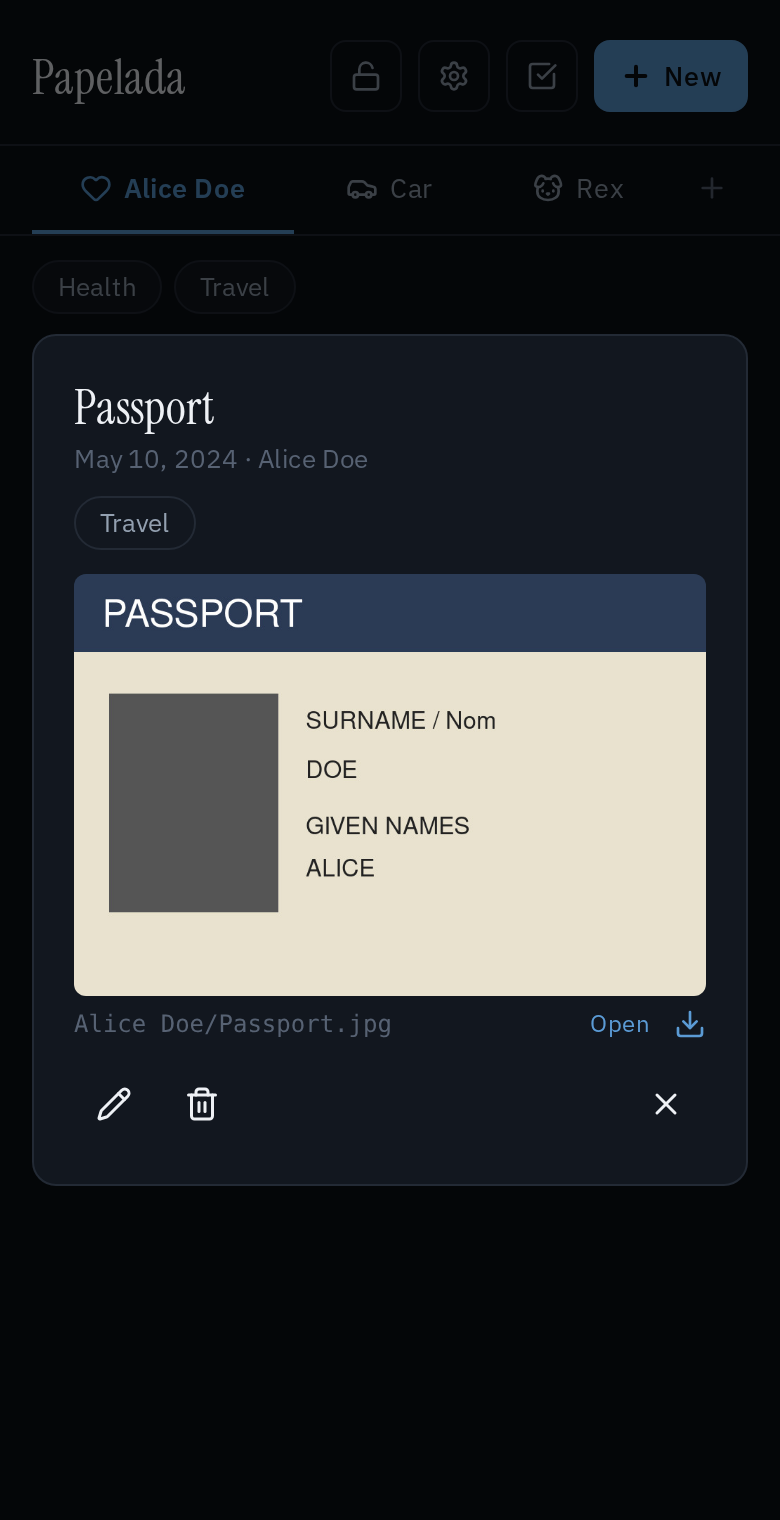
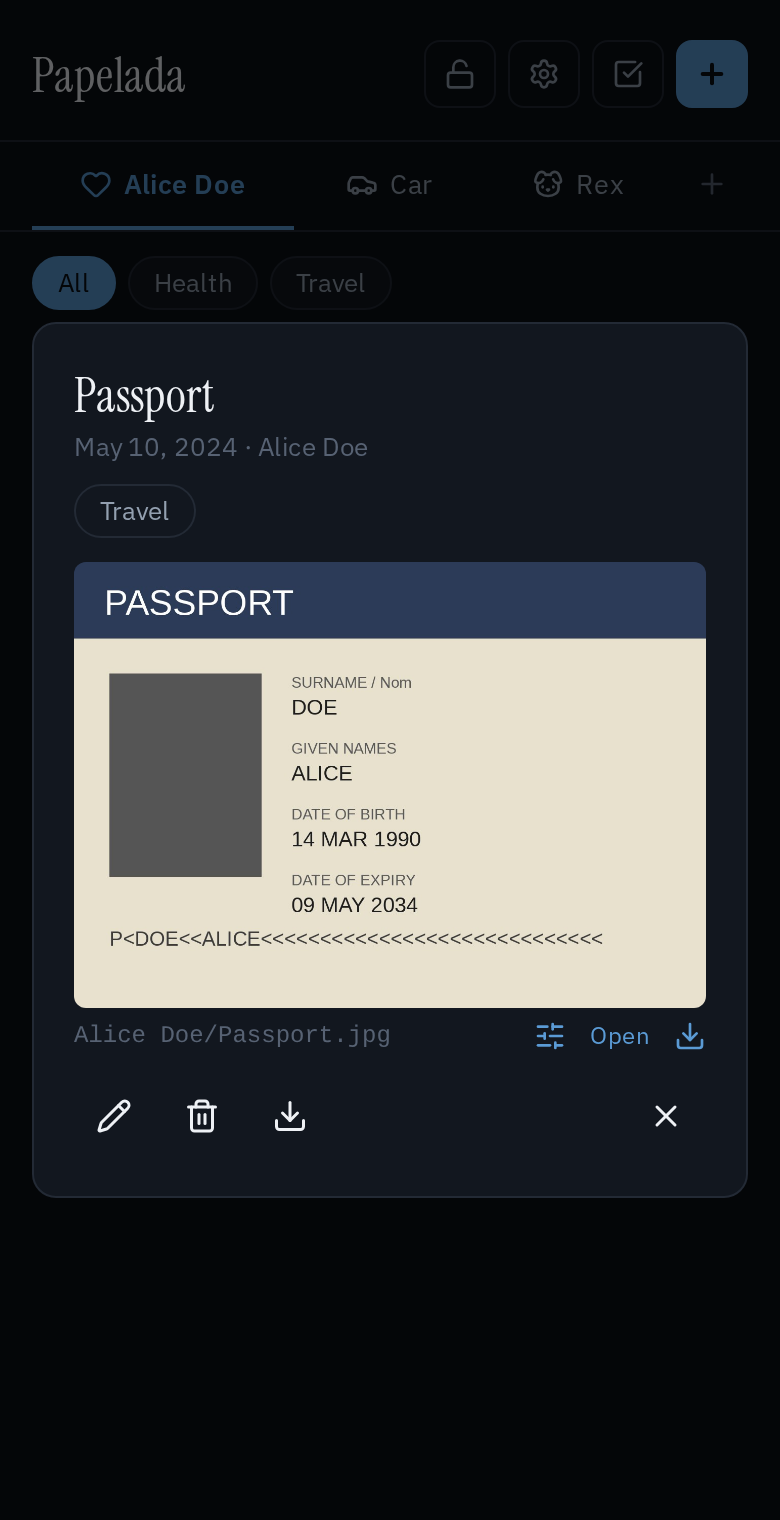
Update the docs screenshots for the page editor (#18)
The list now has server thumbnails and a PDF card with its extension,
the document view shows the edit page and download buttons, and a new
screenshot shows the page editor. The four fit one row at 165 px.

diff --git a/docs/index.md b/docs/index.md
@@ -13,9 +13,10 @@ later.
 *Papelada* is Portuguese for "paperwork", or more precisely "a pile of papers".
 
 <p>
-  <img src="assets/screenshot-list.png" width="220" alt="Documents of one section, with tag filters">
-  <img src="assets/screenshot-document.png" width="220" alt="A document, with the path of its file in the volume">
-  <img src="assets/screenshot-section.png" width="220" alt="Editing a section: name and icon">
+  <img src="assets/screenshot-list.png" width="165" alt="Documents of one section, with tag filters">
+  <img src="assets/screenshot-document.png" width="165" alt="A document, with the path of its file in the volume">
+  <img src="assets/screenshot-editor.png" width="165" alt="The page editor: cropping a photographed card, with the scanned filter on">
+  <img src="assets/screenshot-section.png" width="165" alt="Editing a section: name and icon">
 </p>
 
 - **Your own sections**, one per person, pet, car, house, or anything else, each with
